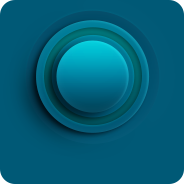
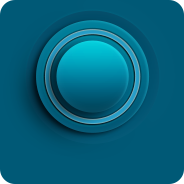
fix audio

Changed region(s): [[0.2174, 0.1359, 0.788, 0.7065]]

diff --git a/veenoon/Engineer/Audio/EngineerHunYinSysViewController.m b/veenoon/Engineer/Audio/EngineerHunYinSysViewController.m
@@ -165,6 +165,11 @@
             
             UIImageView *imageView = [[UIImageView alloc] initWithImage:image];
             imageView.backgroundColor = DARK_BLUE_COLOR;
+            imageView.layer.cornerRadius = 10;
+            imageView.layer.borderWidth = 1;
+            imageView.layer.borderColor = DARK_BLUE_COLOR.CGColor;
+            imageView.clipsToBounds = YES;
+            
             imageView.frame = CGRectMake(startX, startY, 100, 100);
             imageView.tag = index;
             imageView.userInteractionEnabled=YES;
